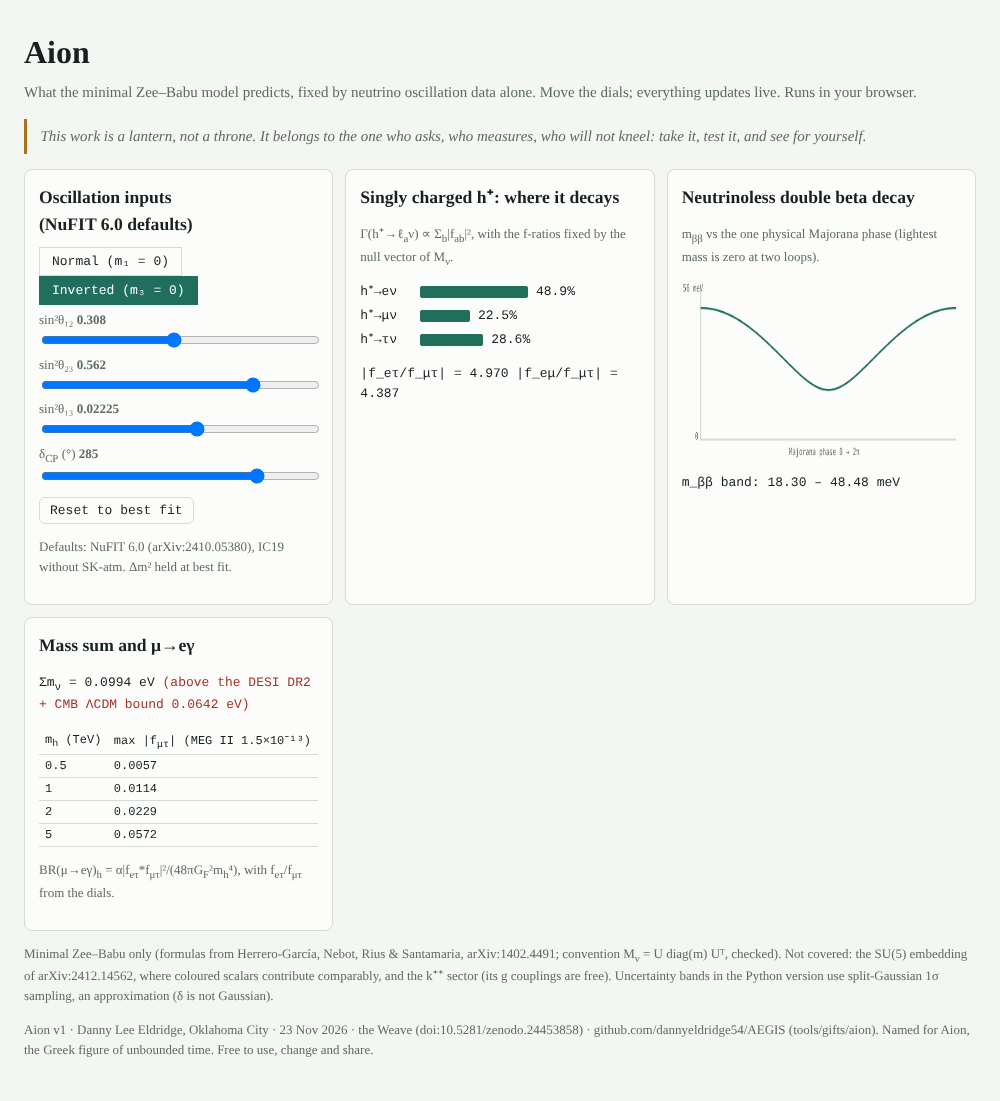
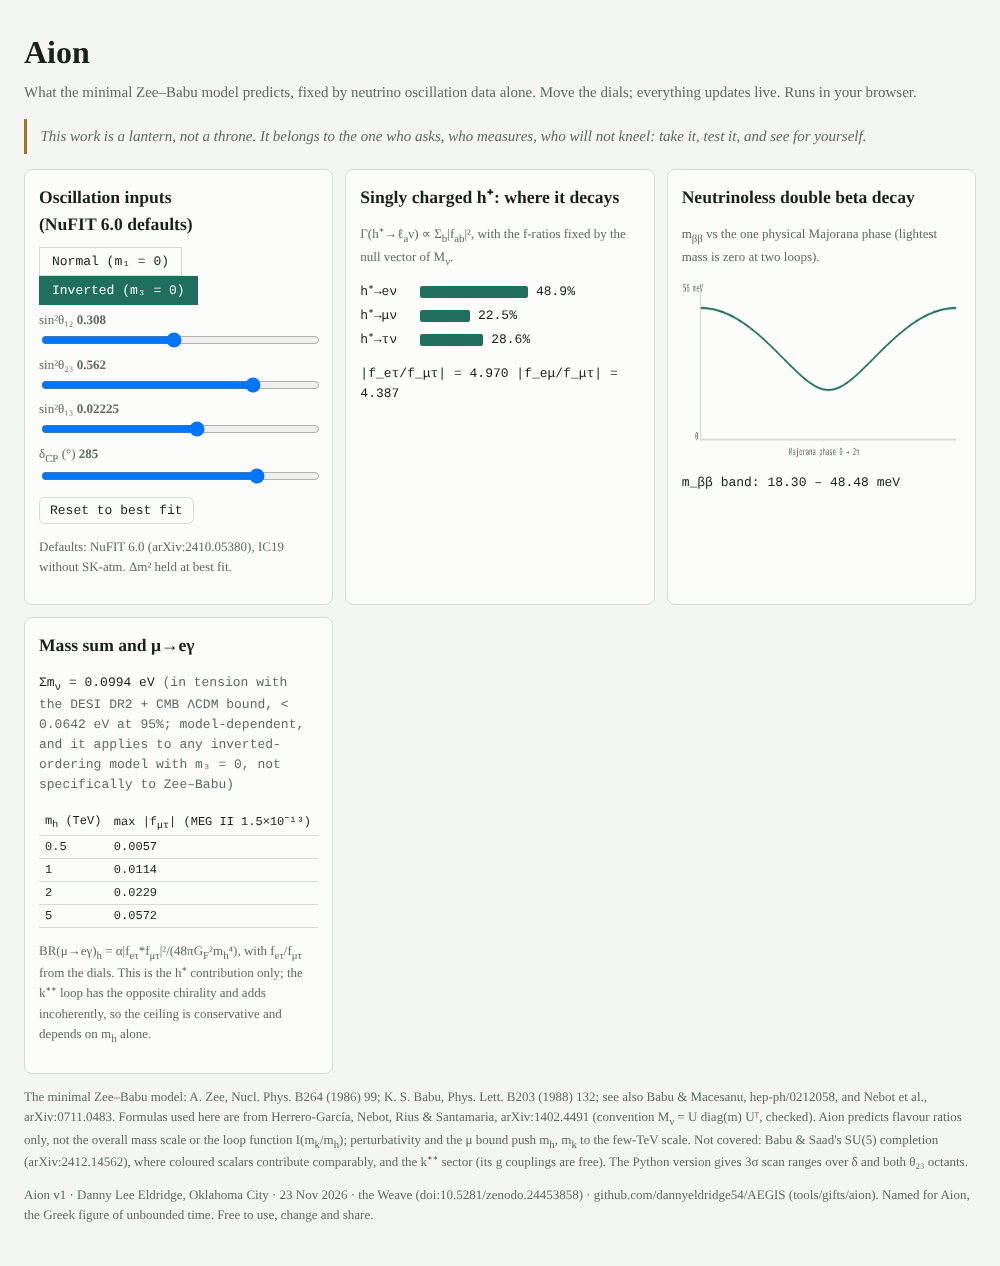
D2188: Aion fixes per DEV-1..7 (citations, 3-sigma scan ranges, mu->e gamma scope, DESI wording, scale caveat)
Claude-Session: https://claude.ai/code/session_014Gbstd4JrhrM8iiEauYtjs

diff --git a/tools/gifts/aion/Aion.html b/tools/gifts/aion/Aion.html
@@ -39,9 +39,9 @@ canvas{width:100%;height:180px;display:block}.note{color:var(--muted);font-size:
 <div class="card"><h2>Mass sum and μ→eγ</h2>
 <p class="mono" id="sum"></p>
 <table><thead><tr><th>m<sub>h</sub> (TeV)</th><th>max |f<sub>μτ</sub>| (MEG II 1.5×10⁻¹³)</th></tr></thead><tbody id="ceil"></tbody></table>
-<p class="note">BR(μ→eγ)<sub>h</sub> = α|f<sub>eτ</sub>*f<sub>μτ</sub>|²/(48πG<sub>F</sub>²m<sub>h</sub>⁴), with f<sub>eτ</sub>/f<sub>μτ</sub> from the dials.</p></div>
+<p class="note">BR(μ→eγ)<sub>h</sub> = α|f<sub>eτ</sub>*f<sub>μτ</sub>|²/(48πG<sub>F</sub>²m<sub>h</sub>⁴), with f<sub>eτ</sub>/f<sub>μτ</sub> from the dials. This is the h⁺ contribution only; the k⁺⁺ loop has the opposite chirality and adds incoherently, so the ceiling is conservative and depends on m<sub>h</sub> alone.</p></div>
 </div>
-<p class="note">Minimal Zee–Babu only (formulas from Herrero-García, Nebot, Rius &amp; Santamaria, arXiv:1402.4491; convention M<sub>ν</sub> = U diag(m) Uᵀ, checked). Not covered: the SU(5) embedding of arXiv:2412.14562, where coloured scalars contribute comparably, and the k⁺⁺ sector (its g couplings are free). Uncertainty bands in the Python version use split-Gaussian 1σ sampling, an approximation (δ is not Gaussian).</p>
+<p class="note">The minimal Zee–Babu model: A. Zee, Nucl. Phys. B264 (1986) 99; K. S. Babu, Phys. Lett. B203 (1988) 132; see also Babu &amp; Macesanu, hep-ph/0212058, and Nebot et al., arXiv:0711.0483. Formulas used here are from Herrero-García, Nebot, Rius &amp; Santamaria, arXiv:1402.4491 (convention M<sub>ν</sub> = U diag(m) Uᵀ, checked). Aion predicts flavour ratios only, not the overall mass scale or the loop function I(m<sub>k</sub>/m<sub>h</sub>); perturbativity and the μ bound push m<sub>h</sub>, m<sub>k</sub> to the few-TeV scale. Not covered: Babu &amp; Saad's SU(5) completion (arXiv:2412.14562), where coloured scalars contribute comparably, and the k⁺⁺ sector (its g couplings are free). The Python version gives 3σ scan ranges over δ and both θ₂₃ octants.</p>
 <p class="note">Aion v1 · Danny Lee Eldridge, Oklahoma City · 23 Nov 2026 · the Weave (doi:10.5281/zenodo.24453858) · github.com/dannyeldridge54/AEGIS (tools/gifts/aion). Named for Aion, the Greek figure of unbounded time. Free to use, change and share.</p>
 </main>
 <script>
@@ -78,7 +78,7 @@ const r=A.run(ord,P),names=['e','μ','τ'];
 $('bars').innerHTML=r.br.map((b,i)=>`<div class="bar mono"><span>h⁺→${names[i]}ν</span><i style="width:${(b*100*2.2).toFixed(1)}px"></i>${(b*100).toFixed(1)}%</div>`).join('');
 $('ratios').textContent=`|f_eτ/f_μτ| = ${r.abs[0].toFixed(3)}   |f_eμ/f_μτ| = ${r.abs[1].toFixed(3)}`;
 $('mbb').textContent=`m_ββ band: ${(r.mbb[0]*1e3).toFixed(2)} – ${(r.mbb[1]*1e3).toFixed(2)} meV`;
-const over=r.sum>A.DESI;$('sum').innerHTML=`Σm<sub>ν</sub> = ${r.sum.toFixed(4)} eV <span class="${over?'warn':''}">(${over?'above':'below'} the DESI DR2 + CMB ΛCDM bound 0.0642 eV)</span>`;
+const over=r.sum>A.DESI;$('sum').innerHTML=`Σm<sub>ν</sub> = ${r.sum.toFixed(4)} eV <span class="note">(${over?'in tension with the DESI DR2 + CMB ΛCDM bound, &lt; 0.0642 eV at 95%; model-dependent, and it applies to any inverted-ordering model with m₃ = 0, not specifically to Zee–Babu':'below the DESI DR2 + CMB ΛCDM bound, &lt; 0.0642 eV at 95%'})</span>`;
 $('ceil').innerHTML=r.ceil.map(([m,c])=>`<tr><td>${m}</td><td>${c.toFixed(4)}</td></tr>`).join('');
 const cv=$('cv'),g=cv.getContext('2d'),W=cv.width,H=cv.height;g.clearRect(0,0,W,H);const pts=[];let mx=0;
 for(let i=0;i<=200;i++){const a=2*Math.PI*i/200,v=A.mbb(ord,P,a)*1e3;pts.push([a,v]);mx=Math.max(mx,v);}mx*=1.15;

diff --git a/tools/gifts/aion/aion_template.html b/tools/gifts/aion/aion_template.html
@@ -39,9 +39,9 @@ canvas{width:100%;height:180px;display:block}.note{color:var(--muted);font-size:
 <div class="card"><h2>Mass sum and μ→eγ</h2>
 <p class="mono" id="sum"></p>
 <table><thead><tr><th>m<sub>h</sub> (TeV)</th><th>max |f<sub>μτ</sub>| (MEG II 1.5×10⁻¹³)</th></tr></thead><tbody id="ceil"></tbody></table>
-<p class="note">BR(μ→eγ)<sub>h</sub> = α|f<sub>eτ</sub>*f<sub>μτ</sub>|²/(48πG<sub>F</sub>²m<sub>h</sub>⁴), with f<sub>eτ</sub>/f<sub>μτ</sub> from the dials.</p></div>
+<p class="note">BR(μ→eγ)<sub>h</sub> = α|f<sub>eτ</sub>*f<sub>μτ</sub>|²/(48πG<sub>F</sub>²m<sub>h</sub>⁴), with f<sub>eτ</sub>/f<sub>μτ</sub> from the dials. This is the h⁺ contribution only; the k⁺⁺ loop has the opposite chirality and adds incoherently, so the ceiling is conservative and depends on m<sub>h</sub> alone.</p></div>
 </div>
-<p class="note">Minimal Zee–Babu only (formulas from Herrero-García, Nebot, Rius &amp; Santamaria, arXiv:1402.4491; convention M<sub>ν</sub> = U diag(m) Uᵀ, checked). Not covered: the SU(5) embedding of arXiv:2412.14562, where coloured scalars contribute comparably, and the k⁺⁺ sector (its g couplings are free). Uncertainty bands in the Python version use split-Gaussian 1σ sampling, an approximation (δ is not Gaussian).</p>
+<p class="note">The minimal Zee–Babu model: A. Zee, Nucl. Phys. B264 (1986) 99; K. S. Babu, Phys. Lett. B203 (1988) 132; see also Babu &amp; Macesanu, hep-ph/0212058, and Nebot et al., arXiv:0711.0483. Formulas used here are from Herrero-García, Nebot, Rius &amp; Santamaria, arXiv:1402.4491 (convention M<sub>ν</sub> = U diag(m) Uᵀ, checked). Aion predicts flavour ratios only, not the overall mass scale or the loop function I(m<sub>k</sub>/m<sub>h</sub>); perturbativity and the μ bound push m<sub>h</sub>, m<sub>k</sub> to the few-TeV scale. Not covered: Babu &amp; Saad's SU(5) completion (arXiv:2412.14562), where coloured scalars contribute comparably, and the k⁺⁺ sector (its g couplings are free). The Python version gives 3σ scan ranges over δ and both θ₂₃ octants.</p>
 <p class="note">Aion v1 · Danny Lee Eldridge, Oklahoma City · 23 Nov 2026 · the Weave (doi:10.5281/zenodo.24453858) · github.com/dannyeldridge54/AEGIS (tools/gifts/aion). Named for Aion, the Greek figure of unbounded time. Free to use, change and share.</p>
 </main>
 <script>
@@ -54,7 +54,7 @@ const r=A.run(ord,P),names=['e','μ','τ'];
 $('bars').innerHTML=r.br.map((b,i)=>`<div class="bar mono"><span>h⁺→${names[i]}ν</span><i style="width:${(b*100*2.2).toFixed(1)}px"></i>${(b*100).toFixed(1)}%</div>`).join('');
 $('ratios').textContent=`|f_eτ/f_μτ| = ${r.abs[0].toFixed(3)}   |f_eμ/f_μτ| = ${r.abs[1].toFixed(3)}`;
 $('mbb').textContent=`m_ββ band: ${(r.mbb[0]*1e3).toFixed(2)} – ${(r.mbb[1]*1e3).toFixed(2)} meV`;
-const over=r.sum>A.DESI;$('sum').innerHTML=`Σm<sub>ν</sub> = ${r.sum.toFixed(4)} eV <span class="${over?'warn':''}">(${over?'above':'below'} the DESI DR2 + CMB ΛCDM bound 0.0642 eV)</span>`;
+const over=r.sum>A.DESI;$('sum').innerHTML=`Σm<sub>ν</sub> = ${r.sum.toFixed(4)} eV <span class="note">(${over?'in tension with the DESI DR2 + CMB ΛCDM bound, &lt; 0.0642 eV at 95%; model-dependent, and it applies to any inverted-ordering model with m₃ = 0, not specifically to Zee–Babu':'below the DESI DR2 + CMB ΛCDM bound, &lt; 0.0642 eV at 95%'})</span>`;
 $('ceil').innerHTML=r.ceil.map(([m,c])=>`<tr><td>${m}</td><td>${c.toFixed(4)}</td></tr>`).join('');
 const cv=$('cv'),g=cv.getContext('2d'),W=cv.width,H=cv.height;g.clearRect(0,0,W,H);const pts=[];let mx=0;
 for(let i=0;i<=200;i++){const a=2*Math.PI*i/200,v=A.mbb(ord,P,a)*1e3;pts.push([a,v]);mx=Math.max(mx,v);}mx*=1.15;

diff --git a/tools/gifts/aion/aion.py b/tools/gifts/aion/aion.py
@@ -2,13 +2,22 @@
 """Aion v1: Zee-Babu prediction engine (minimal model). Danny Lee Eldridge / the Weave, 23 Nov 2026 (D2188).
 A lantern, not a throne: free to use, change and share.
 
-Minimal Zee-Babu: h+ couples through antisymmetric f, k++ through symmetric g; M_nu ~ f Y g^dag Y^T f^T has det = 0,
-so the lightest neutrino is massless at two loops and the f-ratios are fixed by oscillation data
-(Herrero-Garcia, Nebot, Rius, Santamaria, arXiv:1402.4491). Not covered: the SU(5) embedding of arXiv:2412.14562.
+Minimal Zee-Babu model (A. Zee, Nucl. Phys. B264 (1986) 99; K. S. Babu, Phys. Lett. B203 (1988) 132; see also
+Babu & Macesanu, hep-ph/0212058; Nebot et al., arXiv:0711.0483; Herrero-Garcia, Nebot, Rius & Santamaria,
+arXiv:1402.4491, whose formulas are used here). h+ couples through antisymmetric f, k++ through symmetric g;
+M_nu is proportional to f m_l g* m_l f^T, det = 0, so the lightest neutrino is massless at two loops and the
+f-ratios are fixed by oscillation data.
+Predicts flavour RATIOS only: not the overall scale, nor the loop function I(m_k/m_h) (perturbativity and the mu
+bound push m_h, m_k to the few-TeV scale, 1402.4491). Not covered: the SU(5) embedding of Babu & Saad,
+arXiv:2412.14562 (coloured scalars contribute comparably), and the k++ sector (g couplings free).
     Convention: M_nu = U diag(m) U^T (PDG U); the 1402.4491 ratios are null vectors in this convention (D2188 T1).
 """
 import numpy as np, json, sys
 
+NUFIT6_3S = {  # NuFIT 6.0 IC19 w/o SK-atm 3-sigma ranges (s12, s23, s13); delta scanned over [0, 360)
+ 'NO': dict(s12=(0.275, 0.345), s23=(0.430, 0.596), s13=(0.02023, 0.02376)),
+ 'IO': dict(s12=(0.275, 0.345), s23=(0.437, 0.597), s13=(0.02053, 0.02397)),
+}
 NUFIT6 = {  # NuFIT 6.0, IC19 without SK-atm (arXiv:2410.05380): (best, +1s, -1s)
  'NO': dict(s12=(0.307, .012, .011), s23=(0.561, .012, .015), s13=(0.02195, .00054, .00058), d=(177., 19., 20.),
             dm21=(7.49e-5, .19e-5, .19e-5), dm3l=(2.534e-3, .025e-3, .023e-3)),
@@ -47,12 +56,13 @@ def mbb_band(o, p, n=721):
     U = U_pmns(p['s12'], p['s23'], p['s13'], p['d']); m = masses(o, p['dm21'], p['dm3l'])
     vals = []
     for a in np.linspace(0, 2 * np.pi, n):   # only one Majorana phase is physical when m_lightest = 0
-        ph = np.array([1, np.exp(1j * a), 1]) if o == 'NO' else np.array([1, np.exp(1j * a), 1])
+        ph = np.array([1, np.exp(1j * a), 1])
         vals.append(abs(np.sum((U[0] ** 2) * ph * m)))
     return min(vals), max(vals), m.sum()
 
 def fmt_ceiling(ret, mh_tev):
-    """|f_mutau| max from MEG II via BR = alpha |f_etau f_mutau|^2/(48 pi GF^2 mh^4), with f_etau = ret * f_mutau."""
+    """h+-only contribution (k++ has opposite chirality, adds incoherently -> this ceiling is conservative; m_h only).
+    |f_mutau| max from MEG II via BR = alpha |f_etau f_mutau|^2/(48 pi GF^2 mh^4), with f_etau = ret * f_mutau."""
     mh = mh_tev * 1e3; ff2 = MEG2 * 48 * np.pi * GF ** 2 * mh ** 4 / ALPHA
     return np.sqrt(np.sqrt(ff2) / abs(ret))
 
@@ -64,6 +74,19 @@ def sample(o, rng, N):
         z = rng.standard_normal(N); out[k] = b + np.where(z > 0, up, dn) * z
     out['d'] = np.mod(out['d'], 360.0); return out
 
+def scan3s(o, n=9, nd=73):
+    """3-sigma scan (DEV-2): delta over [0,360), s23^2 both octants, s12^2, s13^2 over 3-sigma ranges."""
+    r = NUFIT6_3S[o]; lo = {}; hi = {}
+    def upd(k, v): lo[k] = min(lo.get(k, v), v); hi[k] = max(hi.get(k, v), v)
+    for s12 in np.linspace(*r['s12'], n):
+        for s23 in np.linspace(*r['s23'], n):
+            for s13 in np.linspace(*r['s13'], n):
+                for d in np.linspace(0, 360, nd):
+                    a, b = f_ratios(o, s12, s23, s13, d); br = hplus_br(a, b)
+                    upd('abs_f_etau_over_f_mutau', abs(a)); upd('abs_f_emu_over_f_mutau', abs(b))
+                    upd('BR_e', br[0]); upd('BR_mu', br[1]); upd('BR_tau', br[2]); upd('f_mutau_ceiling_at_1TeV', fmt_ceiling(a, 1.0))
+    return {k: [float(lo[k]), float(hi[k])] for k in lo}
+
 def run(N=20000, seed=2188):
     rng = np.random.default_rng(seed); R = {}
     for o in ('NO', 'IO'):
@@ -74,9 +97,12 @@ def run(N=20000, seed=2188):
             a, b = f_ratios(o, S['s12'][i], S['s23'][i], S['s13'][i], S['d'][i]); BR.append(hplus_br(a, b)); RT.append([abs(a), abs(b)])
         BR, RT = np.array(BR), np.array(RT); q = lambda x: [float(np.percentile(x, 16)), float(np.percentile(x, 84))]
         R[o] = dict(f_etau_over_f_mutau=[float(ret.real), float(ret.imag)], abs_ratios=[float(abs(ret)), float(abs(rem))],
-                    abs_ratio_1sigma=dict(f_etau=q(RT[:, 0]), f_emu=q(RT[:, 1])),
-                    hplus_BR_e_mu_tau=[float(x) for x in br], hplus_BR_1sigma=dict(e=q(BR[:, 0]), mu=q(BR[:, 1]), tau=q(BR[:, 2])),
-                    mbb_band_meV=[lo * 1e3, hi * 1e3], sum_mnu_eV=float(sm), sum_vs_DESI_DR2=('below' if sm < DESI_SUM else 'ABOVE') + ' 0.0642 eV',
+                    ranges_3sigma_scan=scan3s(o),
+                    indicative_1sigma_gaussian_approx_only=dict(f_etau=q(RT[:, 0]), f_emu=q(RT[:, 1]), BR_e=q(BR[:, 0]), BR_mu=q(BR[:, 1]), BR_tau=q(BR[:, 2])),
+                    hplus_BR_e_mu_tau=[float(x) for x in br],
+                    mbb_band_meV=[lo * 1e3, hi * 1e3], sum_mnu_eV=float(sm), sum_vs_DESI_DR2=('below the DESI DR2+CMB LCDM bound (< 0.0642 eV, 95%)' if sm < DESI_SUM else
+                        'in tension with the DESI DR2+CMB LCDM bound (< 0.0642 eV, 95%); model-dependent; applies to any IO model with m3 = 0, not specific to Zee-Babu'),
+                    f_mutau_ceiling_note='h+-only contribution; k++ adds incoherently, so this is a conservative upper bound on |f_mutau|; depends on m_h only',
                     f_mutau_ceiling_MEGII={str(m): float(fmt_ceiling(ret, m)) for m in (0.5, 1, 2, 5)})
     return R
 
